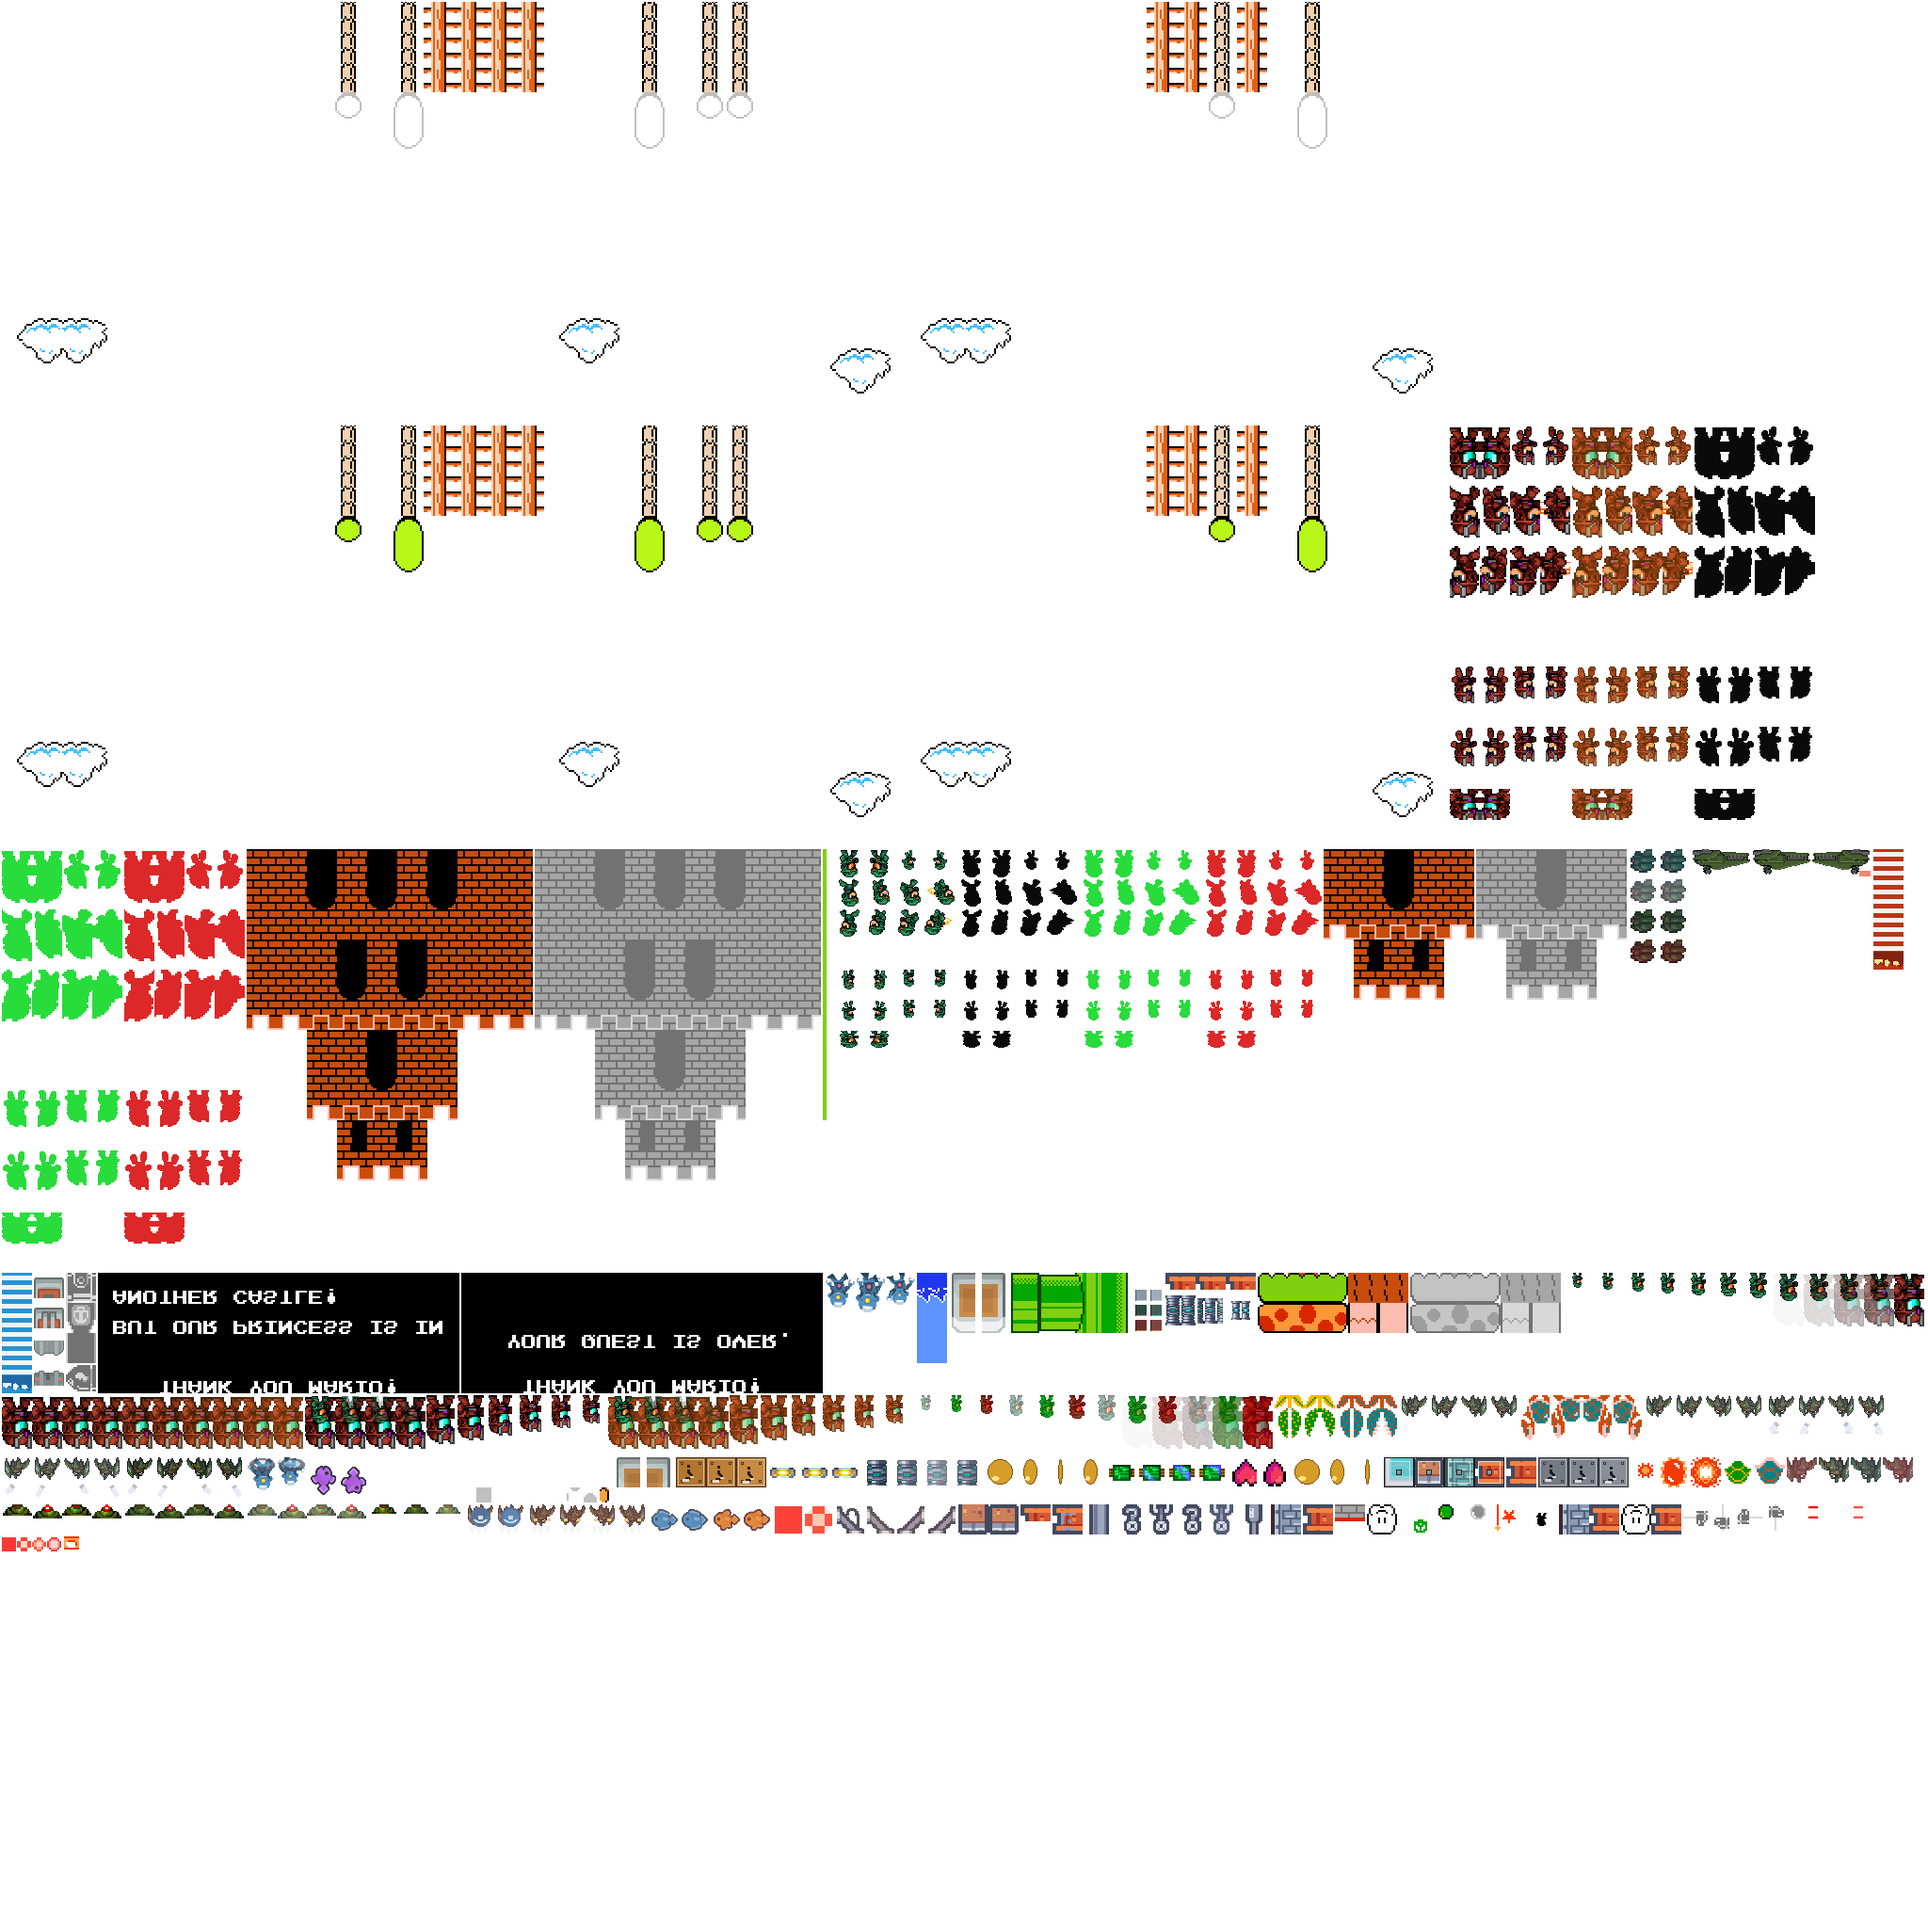
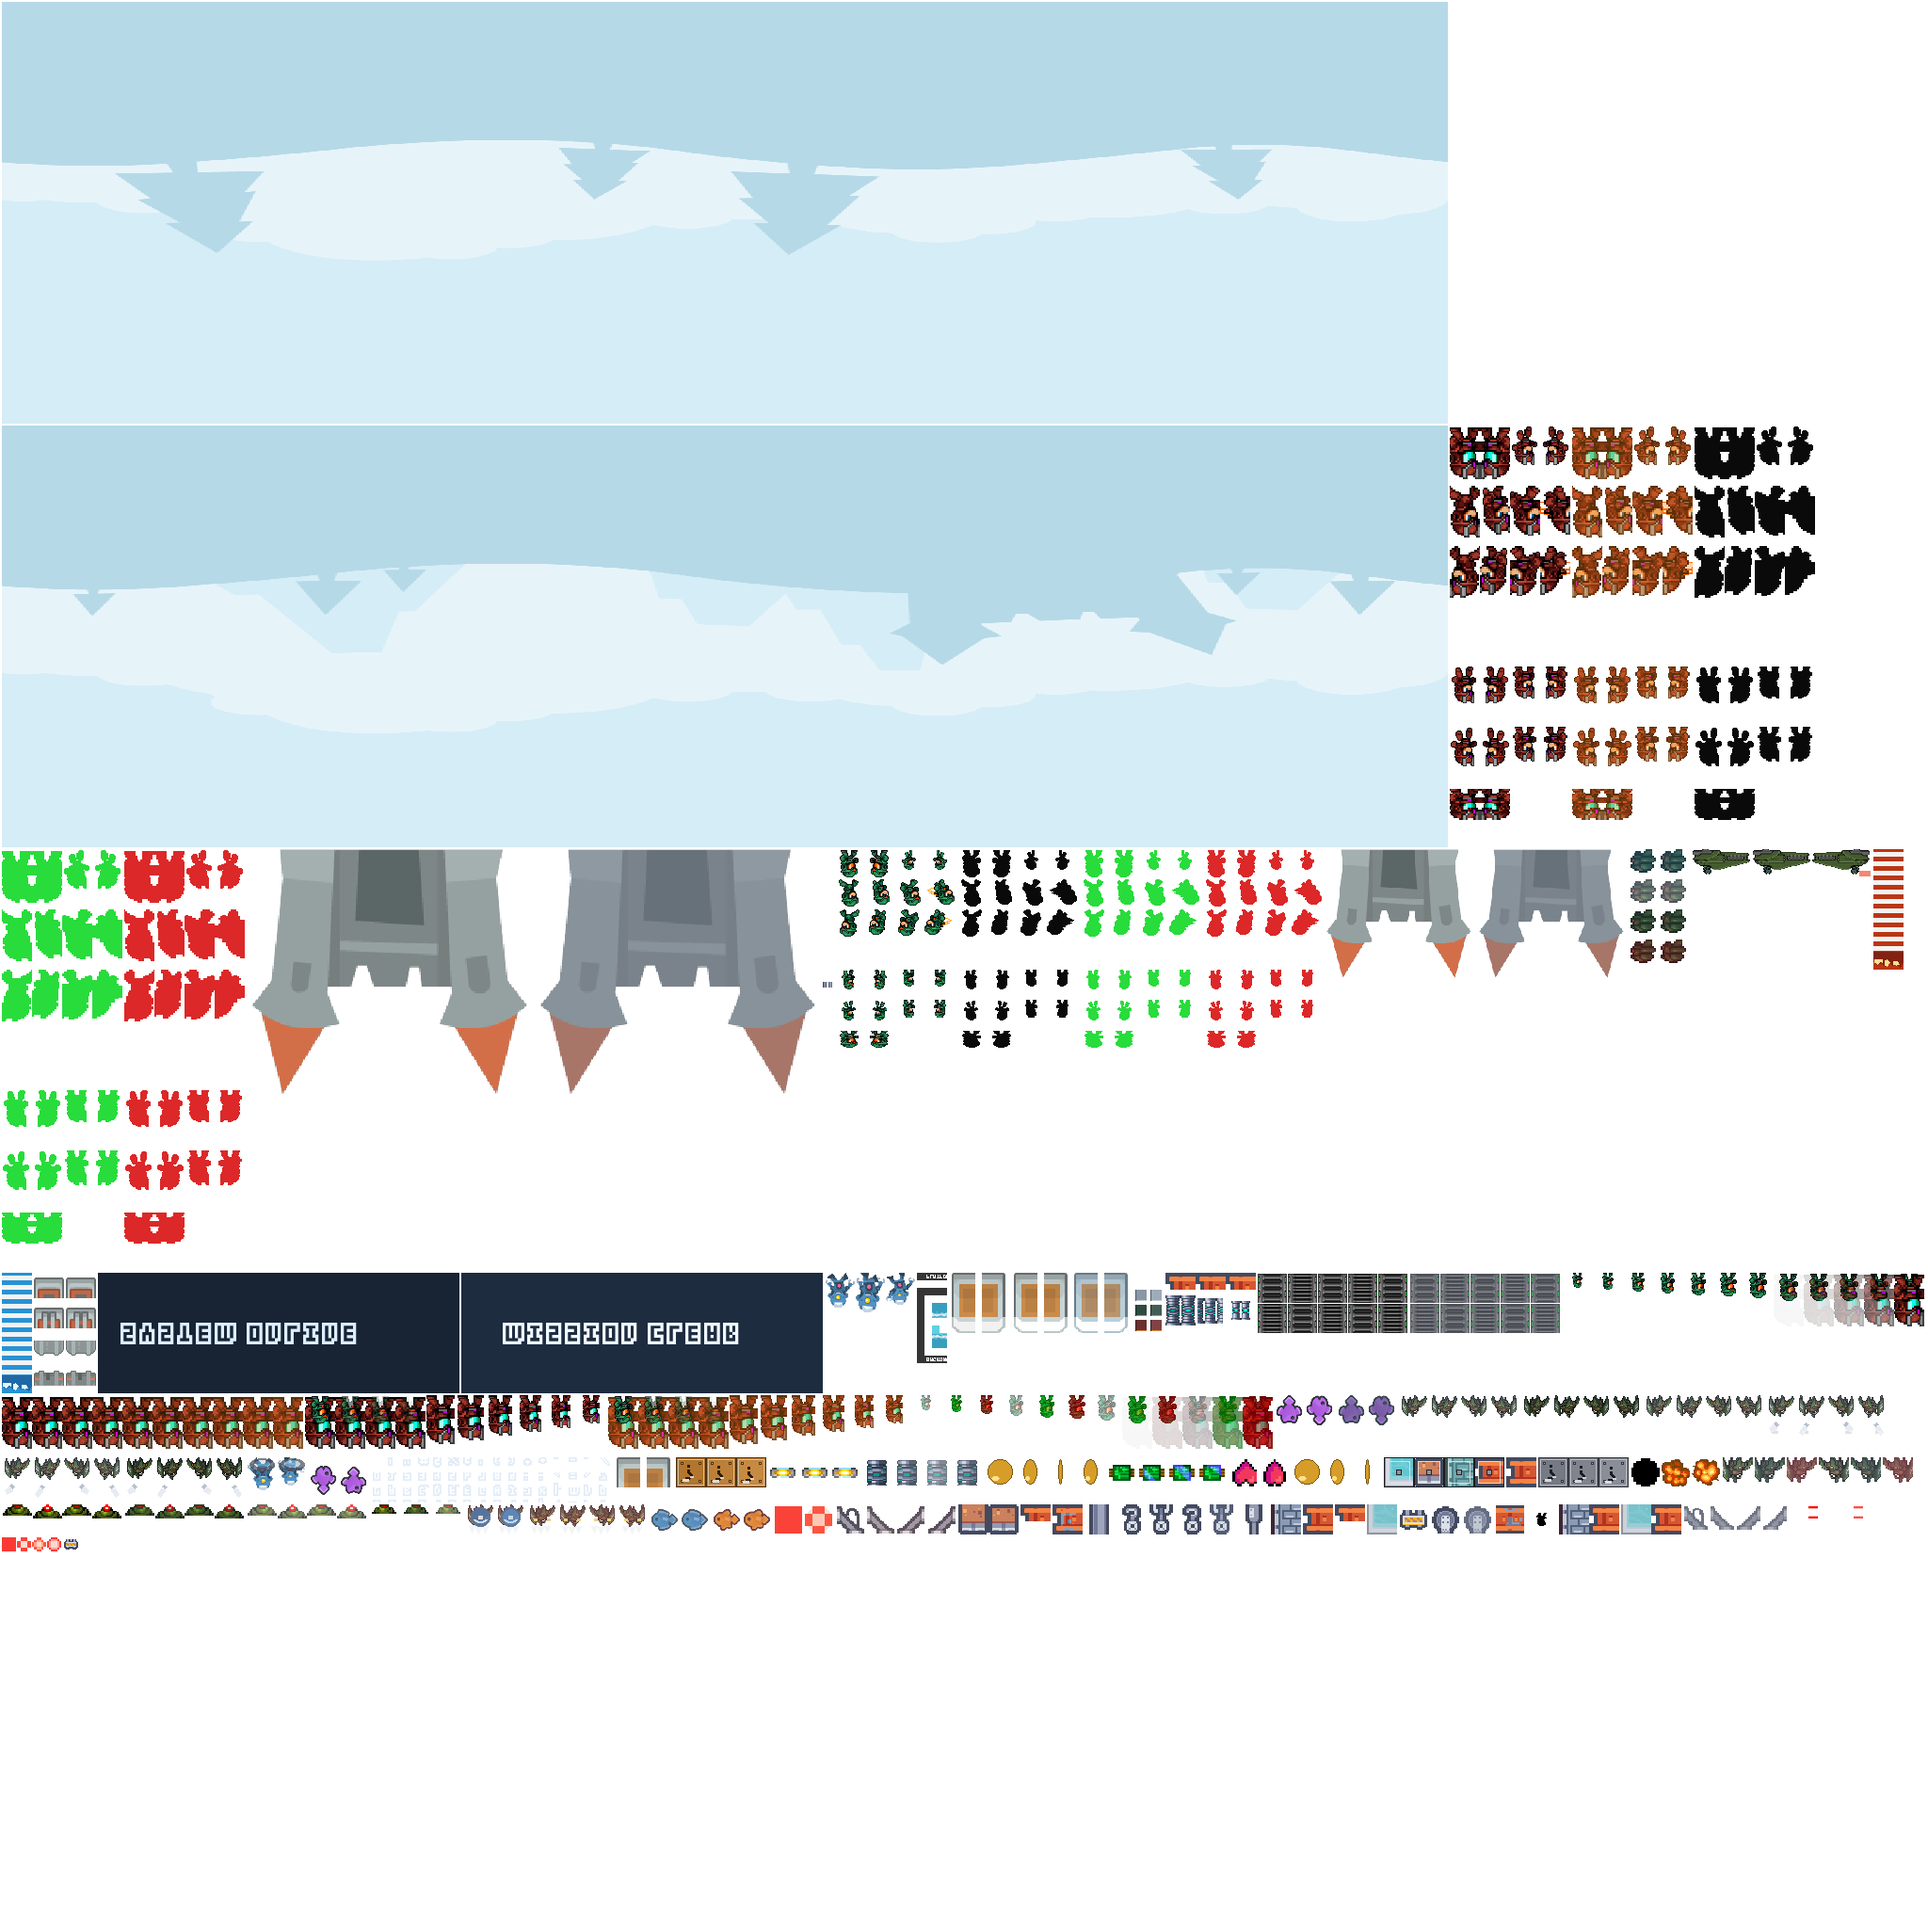
reskin draft

diff --git a/docs/assets/mario-sprites/ampere-staging/build_r4_task17_remaining_sources.py b/docs/assets/mario-sprites/ampere-staging/build_r4_task17_remaining_sources.py
@@ -1,0 +1,209 @@
+from PIL import Image, ImageDraw, ImageFont
+import os
+import sys
+
+sys.path.insert(0, "C:/workspace/morsecode/docs/assets/mario-sprites/ampere-staging")
+from sprite_tools import build_sheet, place_content, tint, verified_crop
+
+OUT = "C:/workspace/morsecode/docs/assets/mario-sprites/reskin-source"
+K2D = "C:/workspace/Kenney_Game_Assets_All/2D assets"
+ROBOT = "C:/workspace/robot_series_base_pack/other"
+
+
+def ensure_parent(path):
+    os.makedirs(os.path.dirname(path), exist_ok=True)
+
+
+def save(im, rel):
+    path = f"{OUT}/{rel}"
+    ensure_parent(path)
+    im.save(path)
+
+
+def scifi_tile(sheet, idx):
+    cols, tile = 36, 32
+    row, col = divmod(idx, cols)
+    return verified_crop(sheet, (col * tile, row * tile, (col + 1) * tile, (row + 1) * tile), f"scifi {idx}")
+
+
+def industrial_tile(idx):
+    p = f"{K2D}/Pixel Platformer Industrial Expansion/Tiles/tile_{idx:04d}.png"
+    return Image.open(p).convert("RGBA")
+
+
+def make_bubble():
+    fish = f"{K2D}/Fish Pack/PNG/Default"
+    src = [
+        Image.open(f"{fish}/bubble_a.png").convert("RGBA"),
+        Image.open(f"{fish}/bubble_b.png").convert("RGBA"),
+        Image.open(f"{fish}/bubble_c.png").convert("RGBA"),
+        Image.open(f"{fish}/bubble_b.png").convert("RGBA"),
+    ]
+    frames = [place_content(s, 8, 14, fill=0.92, anchor="center") for s in src]
+    build_sheet(8, 14, frames, 4, 1, f"{OUT}/Bubble.png")
+
+
+def make_plants():
+    # 2x1, 32x48 each frame.
+    p0 = Image.open(f"{K2D}/New Platformer Pack/Sprites/Enemies/Default/fish_purple_up.png").convert("RGBA")
+    p1 = Image.open(f"{K2D}/New Platformer Pack/Sprites/Enemies/Default/fish_purple_down.png").convert("RGBA")
+    f0 = place_content(verified_crop(p0, (0, 0, p0.width, p0.height), "plant0"), 32, 48, fill=0.9, anchor="bottom")
+    f1 = place_content(verified_crop(p1, (0, 0, p1.width, p1.height), "plant1"), 32, 48, fill=0.9, anchor="bottom")
+    build_sheet(32, 48, [f0, f1], 2, 1, f"{OUT}/plant.png")
+    build_sheet(32, 48, [tint(f0, (66, 94, 108), 0.45), tint(f1, (66, 94, 108), 0.45)], 2, 1, f"{OUT}/plantdark.png")
+
+
+def make_hori_image():
+    pump_top = Image.open(f"{OUT}/pump top.png").convert("RGBA")
+    left = verified_crop(pump_top, (0, 0, 64, 64), "hori left")
+    right = Image.new("RGBA", (64, 64), (0, 0, 0, 0))
+    right.alpha_composite(left)
+    right = tint(right, (120, 190, 250), 0.18)
+    sheet = Image.new("RGBA", (128, 64), (0, 0, 0, 0))
+    sheet.paste(left, (0, 0), left)
+    sheet.paste(right, (64, 0), right)
+    save(sheet, "HoriImage.png")
+
+
+def make_explosion():
+    ex = Image.open(f"{ROBOT}/explode-Sheet[64height64wide].png").convert("RGBA")
+    frames = []
+    for i in (0, 2, 4):
+        raw = verified_crop(ex, (i * 64, 0, (i + 1) * 64, 64), f"explosion{i}")
+        frames.append(place_content(raw, 32, 32, fill=0.95, anchor="center"))
+    build_sheet(32, 32, frames, 3, 1, f"{OUT}/Explosion.png")
+
+
+def make_aliases_and_bw():
+    # Filename aliases expected by PackMarioAtlas.
+    Image.open(f"{OUT}/turtle_dark.png").convert("RGBA").save(f"{OUT}/turtledark.png")
+    Image.open(f"{OUT}/turtle_shell.png").convert("RGBA").save(f"{OUT}/TurtelShell.png")
+    Image.open(f"{OUT}/turtle_shell_dark.png").convert("RGBA").save(f"{OUT}/TurtelShelldark.png")
+
+    # CloudsNight hammer from existing axe strip, resized to 4x(28x28).
+    axe = Image.open(f"{OUT}/Axe.png").convert("RGBA")
+    frames = [verified_crop(axe, (i * 32, 0, (i + 1) * 32, 32), f"hammer{i}") for i in range(4)]
+    bw = [tint(place_content(fr, 28, 28, fill=0.9), (132, 146, 162), 0.55) for fr in frames]
+    ensure_parent(f"{OUT}/CloudsNight/Hammer.png")
+    build_sheet(28, 28, bw, 4, 1, f"{OUT}/CloudsNight/Hammer.png")
+
+
+def make_castles_tree_lift():
+    castle = Image.open(f"{K2D}/Background Elements/PNG/castle_grey.png").convert("RGBA")
+    small = place_content(castle, 160, 160, fill=0.96, anchor="bottom")
+    big = place_content(castle, 304, 352, fill=0.96, anchor="bottom")
+    save(small, "SmallCastle.png")
+    save(big, "BigCastle.png")
+    save(tint(small, (118, 128, 146), 0.45), "CloudsNight/SmallCastle.png")
+    save(tint(big, (118, 128, 146), 0.45), "CloudsNight/BigCastle.png")
+
+    # 5x2 tree sheet as antenna/pylon motifs from robot platform tiles.
+    platform = Image.open(f"{ROBOT}/platform.png").convert("RGBA")
+    pyl_a = verified_crop(platform, (6 * 32, 11 * 32, 7 * 32, 12 * 32), "pylon a")
+    pyl_b = verified_crop(platform, (7 * 32, 11 * 32, 8 * 32, 12 * 32), "pylon b")
+    frames = [pyl_a, pyl_b, pyl_a, pyl_b, pyl_a, pyl_b, pyl_a, pyl_b, pyl_a, pyl_b]
+    tree_frames = [place_content(fr, 32, 32, fill=0.96, anchor="center") for fr in frames]
+    tree = Image.new("RGBA", (160, 64), (0, 0, 0, 0))
+    for i, fr in enumerate(tree_frames):
+        x = (i % 5) * 32
+        y = (i // 5) * 32
+        tree.paste(fr, (x, y), fr)
+    save(tree, "tree.png")
+    save(tint(tree, (126, 132, 144), 0.48), "CloudsNight/tree.png")
+
+    lift_src = industrial_tile(41)
+    lift = place_content(lift_src, 16, 16, fill=0.95, anchor="center")
+    save(lift, "Lift.png")
+
+
+def make_backgrounds():
+    peaks = Image.open(f"{K2D}/Background Elements/Samples/uncolored_peaks.png").convert("RGBA")
+    plain = Image.open(f"{K2D}/Background Elements/Samples/uncolored_plain.png").convert("RGBA")
+    forest = Image.open(f"{K2D}/Background Elements/Samples/uncolored_forest.png").convert("RGBA")
+    castle = Image.open(f"{K2D}/Background Elements/Samples/uncolored_castle.png").convert("RGBA")
+
+    mountain = peaks.resize((1536, 448), Image.NEAREST)
+    clouds = plain.resize((1536, 448), Image.NEAREST)
+    cloudsnight = tint(clouds, (92, 110, 150), 0.35)
+    fence = forest.resize((1536, 448), Image.NEAREST)
+    fence2 = castle.resize((1536, 448), Image.NEAREST)
+    save(mountain, "Mountain.png")
+    save(clouds, "Clouds.png")
+    save(cloudsnight, "CloudsNight.png")
+    save(fence, "Fence.png")
+    save(fence2, "Fence2.png")
+
+    # Sea backdrop: from robot series BACKGROUND 2 band.
+    platform = Image.open(f"{ROBOT}/platform.png").convert("RGBA")
+    sea_band = verified_crop(platform, (0, 128, 64, 320), "sea band")
+    sea = place_content(sea_band, 32, 96, fill=1.0, anchor="center")
+    save(sea, "Sea.png")
+
+
+def make_clowd_and_flags():
+    stone = Image.open(f"{OUT}/stone_Sea.png").convert("RGBA")
+    save(tint(stone, (180, 186, 194), 0.28), "stone_Clowd.png")
+
+    ind75 = place_content(industrial_tile(75), 4, 288, fill=1.0, anchor="center")
+    save(ind75, "Flag.png")
+    save(tint(ind75, (154, 162, 178), 0.4), "FlagFence.png")
+
+    orb = place_content(industrial_tile(83), 32, 32, fill=0.9, anchor="center")
+    save(orb, "FlagSphere.png")
+    save(tint(orb, (154, 162, 178), 0.4), "FlagSphereFence.png")
+
+    top = place_content(industrial_tile(41), 32, 32, fill=0.9, anchor="center")
+    save(top, "FlagTop.png")
+
+    flagwin = place_content(industrial_tile(21), 32, 32, fill=0.95, anchor="center")
+    save(flagwin, "FlagWin.png")
+
+
+def make_info_font_and_messages():
+    font_path = "C:/workspace/Kenney_Game_Assets_All/Other/Fonts/Kenney Blocks.ttf"
+    fnt = ImageFont.truetype(font_path, 14)
+
+    # 16x3 cells, 16x16 each.
+    sheet = Image.new("RGBA", (256, 48), (0, 0, 0, 0))
+    draw = ImageDraw.Draw(sheet)
+    chars = [chr(c) for c in range(32, 32 + 48)]
+    for i, ch in enumerate(chars):
+        x = (i % 16) * 16
+        y = (i // 16) * 16
+        draw.text((x + 2, y + 1), ch, font=fnt, fill=(226, 236, 248, 255))
+    save(sheet, "Font.png")
+
+    bg = Image.open(f"{K2D}/Background Elements/Samples/uncolored_castle.png").convert("RGBA")
+    info = bg.resize((640, 480), Image.NEAREST)
+    info2 = tint(info, (108, 144, 188), 0.22)
+    save(info, "Info.png")
+    save(info2, "Info2.png")
+
+    panel = Image.new("RGBA", (384, 128), (24, 36, 52, 255))
+    d = ImageDraw.Draw(panel)
+    d.text((24, 42), "SYSTEM ONLINE", font=ImageFont.truetype(font_path, 26), fill=(220, 238, 255, 255))
+    save(panel, "AnotherCastleMessage.png")
+
+    panel2 = Image.new("RGBA", (384, 128), (30, 44, 64, 255))
+    d2 = ImageDraw.Draw(panel2)
+    d2.text((44, 42), "MISSION CLEAR", font=ImageFont.truetype(font_path, 26), fill=(240, 248, 255, 255))
+    save(panel2, "QuestComplete.png")
+
+
+def make_cloudsnight_aliases():
+    save(Image.open(f"{OUT}/Bouncer.png").convert("RGBA"), "CloudsNight/Bouncer.png")
+    save(Image.open(f"{OUT}/RocketLauncher.png").convert("RGBA"), "CloudsNight/RocketLauncher.png")
+
+
+if __name__ == "__main__":
+    make_bubble()
+    make_plants()
+    make_hori_image()
+    make_explosion()
+    make_aliases_and_bw()
+    make_castles_tree_lift()
+    make_backgrounds()
+    make_clowd_and_flags()
+    make_info_font_and_messages()
+    make_cloudsnight_aliases()
+    print("wrote remaining source-mapped assets")

diff --git a/docs/mario/MARIO_RESKIN_EXECUTION.md b/docs/mario/MARIO_RESKIN_EXECUTION.md
@@ -706,8 +706,26 @@ closes.
       geometry (`pump` 64x32, `pump_top` 64x64). Packed clean (`86 / 122` overlay) and
       compile-checked (`:app:compileDebugJavaWithJavac` successful).
 
-      **Still open for R.4** (tier-3/4 per §16.4, not yet started): tier-4's long tail of
-      one-off enemies/mechanisms.
+      **2026-09-10: Task 17 (remaining overlay closure pass) done**
+      (`docs/assets/mario-sprites/ampere-staging/build_r4_task17_remaining_sources.py`) —
+      replaced all previously missing overlay files from source-mapped Kenney/Robot assets,
+      including `Bubble.png`, `plant*.png`, `HoriImage.png`, `Explosion.png`,
+      alias-name shell/turtle files (`turtledark`, `TurtelShell*`), CloudsNight-only
+      variants (`CloudsNight/Hammer.png`, `CloudsNight/tree.png`,
+      `CloudsNight/SmallCastle.png`, `CloudsNight/BigCastle.png`,
+      `CloudsNight/Bouncer.png`, `CloudsNight/RocketLauncher.png`), structural/scenery
+      holdouts (`SmallCastle.png`, `BigCastle.png`, `tree.png`, `Lift.png`,
+      `Mountain.png`, `Clouds.png`, `CloudsNight.png`, `Fence*.png`, `Sea.png`,
+      `stone_Clowd.png`), end-of-level UI/scenery (`Flag*.png`,
+      `AnotherCastleMessage.png`, `QuestComplete.png`), and HUD placeholders
+      (`Font.png`, `Info.png`, `Info2.png`) using Kenney Blocks + Background Elements
+      sources. Atlas now packs fully from overlay (`122 / 122`) and compile-check remains
+      clean (`:app:compileDebugJavaWithJavac` successful).
+
+      **Still open for R.4:** no unreplaced atlas files remain (overlay closure reached
+      `122 / 122`). Remaining work is QA/polish: on-device visual tuning for known
+      "needs revisit" assets (`rocket_launcher`/spring/shell family) and any additional
+      readability fixes discovered during full-world test passes.
 
 ### Step R.5 — Scenery, backdrops, HUD, UI text
 
